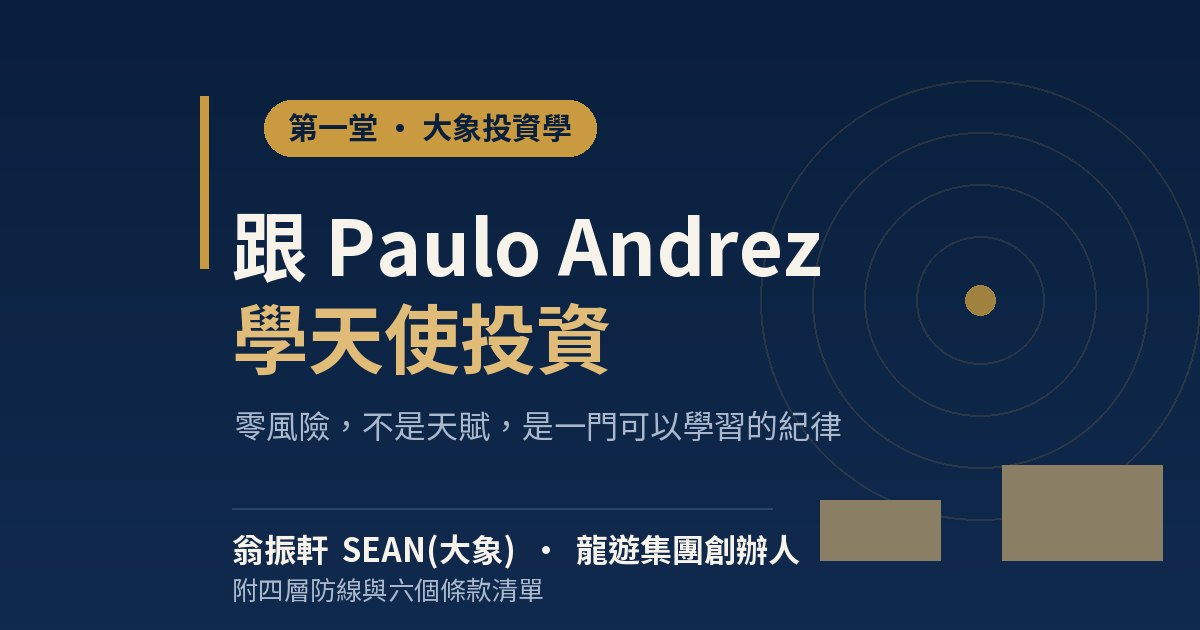
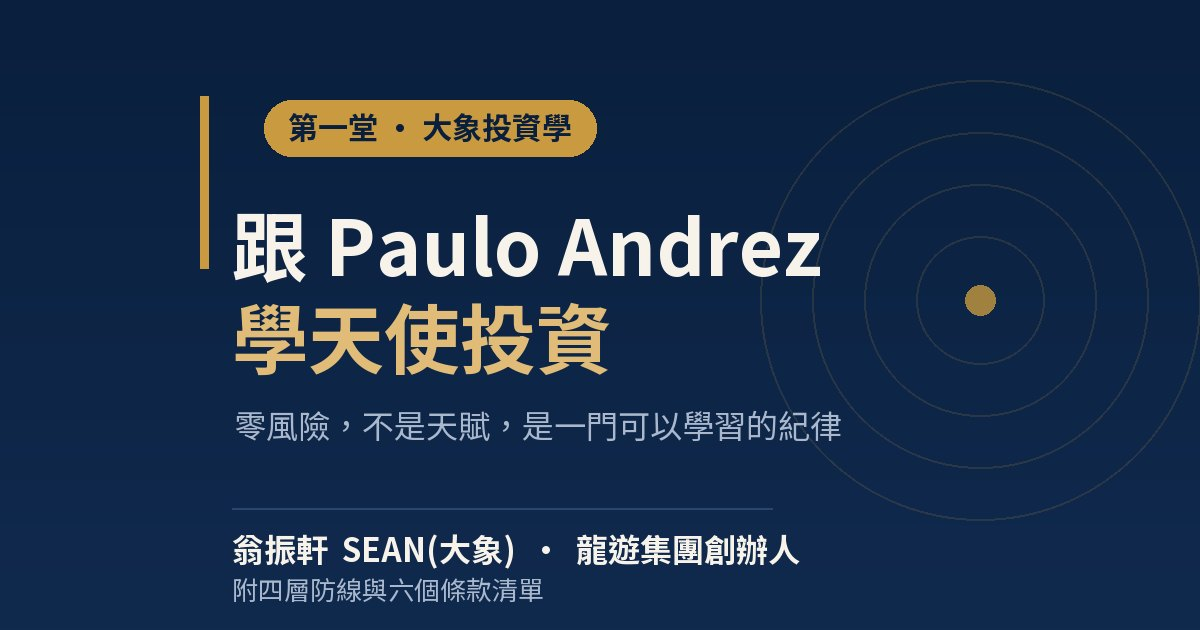
125 封面修正：移除右下兩個裝飾金方塊（軒哥指出看似空占位框），右下留白只留靶心焦點

Changed region(s): [[0.8325, 0.7238, 0.9867, 0.9048], [0.6783, 0.7841, 0.8017, 0.9048]]

diff --git a/tools/_gen_cover_125.py b/tools/_gen_cover_125.py
@@ -52,19 +52,15 @@ def render():
     base = vgrad(W, H, NAVY_DEEP, NAVY_MID).convert('RGBA')
     d = ImageDraw.Draw(base)
 
-    # ---- 右側幾何動機：零風險靶心（同心圓）＋ 上升柱狀 ----
+    # ---- 右側幾何動機：零風險靶心（同心圓）----
+    # （2026-10-09 軒哥圈出右下兩個金方塊問「要放什麼」——原是裝飾性上升柱狀，
+    #   但看起來像沒填內容的空框。拍板：拿掉留白，只留靶心一個視覺焦點。）
     layer = Image.new('RGBA', (W, H), (0, 0, 0, 0))
     ld = ImageDraw.Draw(layer)
     cx, cy = 980, 300
     for r in (220, 168, 116, 64):
         ld.ellipse([cx - r, cy - r, cx + r, cy + r], outline=(201, 154, 63, 38), width=2)
     ld.ellipse([cx - 15, cy - 15, cx + 15, cy + 15], fill=(201, 154, 63, 200))
-    # 上升柱狀（右下落腳，象徵資產成長；避開底部作者列分隔線，不重疊）
-    bars = [(120, 60), (160, 95), (200, 130)]
-    bx = 820
-    for i, (bw, bh) in enumerate(bars):
-        x = bx + i * (bw + 22)
-        ld.rectangle([x, H - 70 - bh, x + bw, H - 70], fill=(224, 188, 120, 150))
     base = Image.alpha_composite(base, layer).convert('RGB')
     d = ImageDraw.Draw(base)
 
